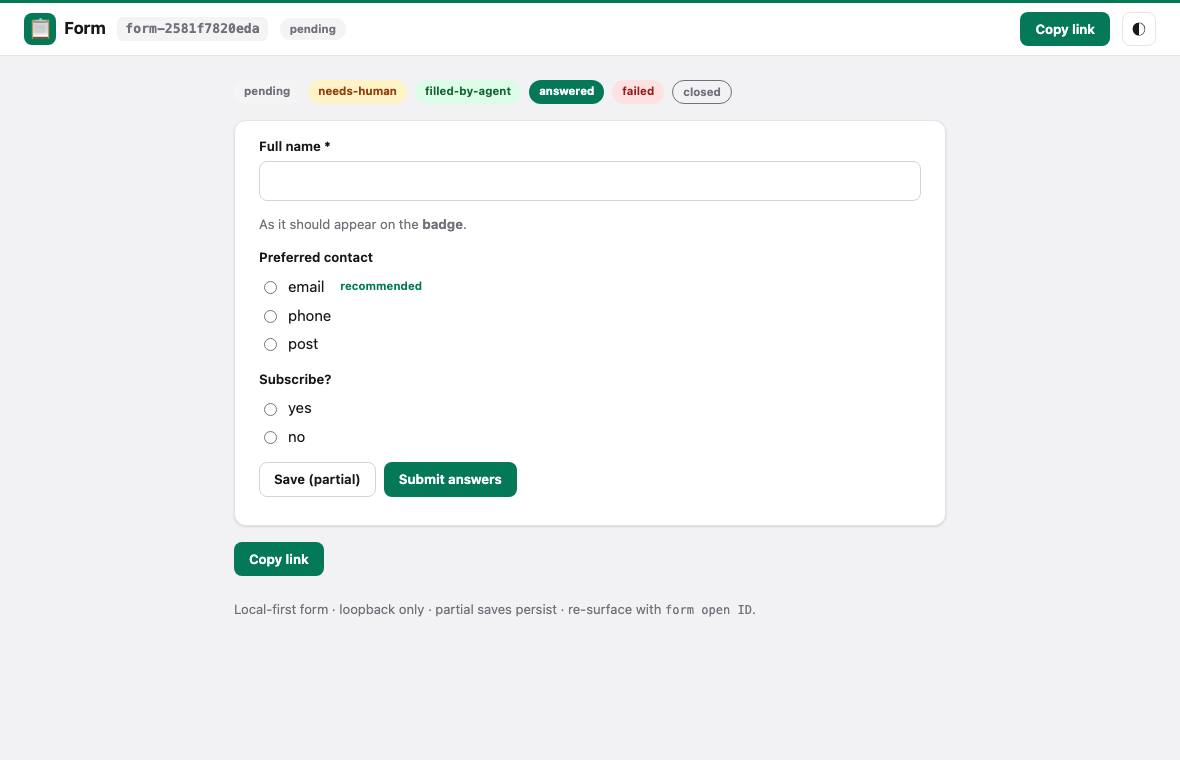
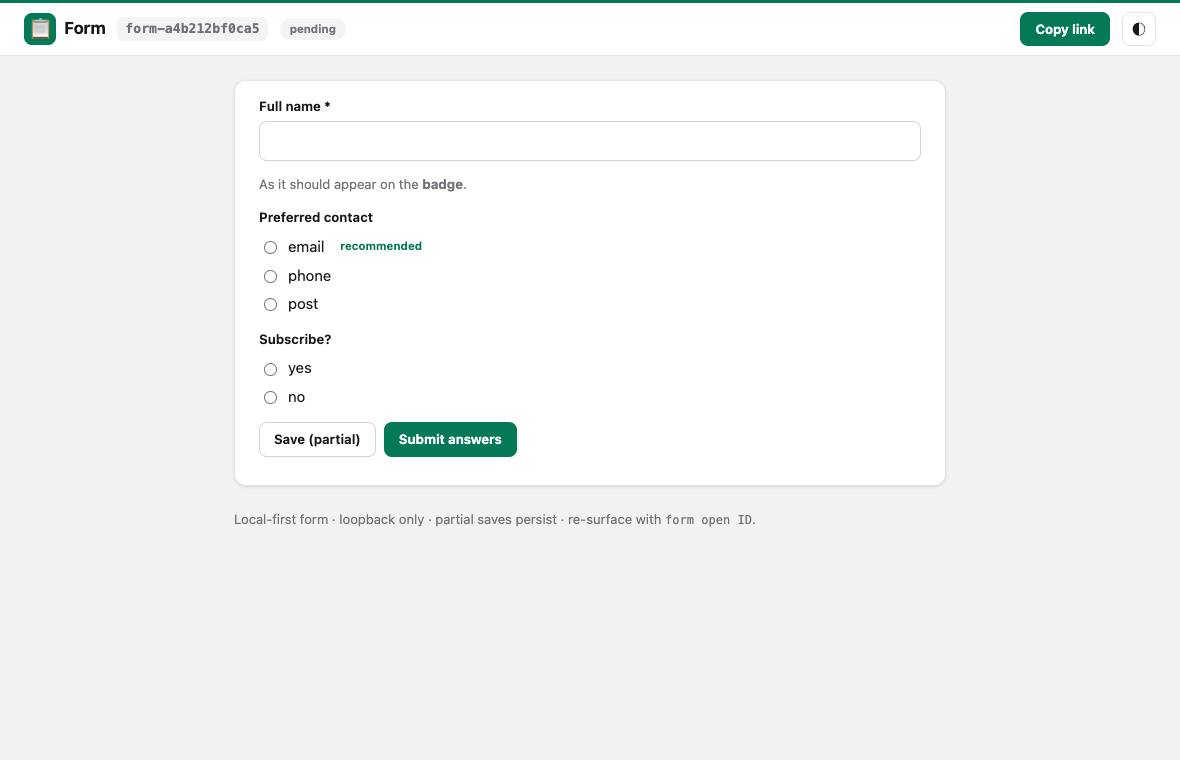
desk: one shell action set per tool, single status badge, gallery check
The kit app bar now owns Copy link for every tool; tool bodies no longer
render their own Copy link or the all-statuses demo strip. capture.mjs
asserts identical top-bar actions and exactly one badge per tool page.

Sprint: #537
Story: #2967
Story-ID: 6238ebc797ee

diff --git a/examples/brainstorm/server/index.html b/examples/brainstorm/server/index.html
@@ -63,7 +63,7 @@ function render(s){
  document.title=s.title+' · Brainstorm';
  $('sessionTitle').textContent=s.title;
  $('summary').textContent=`${s.total} idea${s.total===1?'':'s'} collected`+(s.phase==='vote'?` · ${s.votesLeft} votes left`:'');
- $('statusBadge').dataset.status=s.phase==='closed'?'closed':'pending';$('statusBadge').textContent=s.phase==='closed'?'closed':'pending';$('copy').dataset.copy=location.origin+basePath+'/'+sessionQS();
+ $('statusBadge').dataset.status=s.phase==='closed'?'closed':'pending';$('statusBadge').textContent=s.phase==='closed'?'closed':'pending';$('copy').dataset.copy=location.origin+basePath+'/'+sessionQS();$('deskShareLink').dataset.copy=$('copy').dataset.copy;
  $('facilitatorPanel').hidden=!s.facilitator;$('participantLink').textContent='Participant link: '+location.origin+basePath+'/'+sessionQS();
  if(!$('column').options.length){s.columns.forEach((c,i)=>{const o=el('option',c);o.value=i;$('column').append(o)});$('column').value=draft.column||'0'}
  const writing=s.phase==='write';$('submit').disabled=!writing;$('cancel').hidden=!editing;$('submit').textContent=editing?'Save edit':'Add idea';

diff --git a/examples/whiteboard/server/index.html b/examples/whiteboard/server/index.html
@@ -78,7 +78,7 @@ function render(s){
  $('statusBadge').dataset.status=s.locked?'closed':'pending';$('statusBadge').textContent=s.locked?'closed':'pending';
  const origin=new URL(api('/')).origin+new URL(api('./')).pathname.replace(/\/$/,'');
  $('participantLink').textContent='Participant link: '+origin+'/?board='+encodeURIComponent(s.board);
- $('copyLink').dataset.copy=origin+'/?board='+encodeURIComponent(s.board);syncInviteCopy(origin);
+ $('copyLink').dataset.copy=origin+'/?board='+encodeURIComponent(s.board);$('deskShareLink').dataset.copy=$('copyLink').dataset.copy;syncInviteCopy(origin);
  if(s.facilitator){
   const codes=(s.invites&&s.invites.length?s.invites:(lastInvite?[lastInvite]:[]));
   const show=codes.length?codes[codes.length-1]:'';

diff --git a/examples/desk/kit/kit.js b/examples/desk/kit/kit.js
@@ -35,7 +35,7 @@
   }
 
   async function copyText(btn) {
-    var text = btn.getAttribute('data-copy') || '';
+    var text = btn.getAttribute('data-copy') || location.href;
     try {
       await navigator.clipboard.writeText(text);
       flashCopied(btn);

diff --git a/examples/desk/notepad/main.go b/examples/desk/notepad/main.go
@@ -562,22 +562,12 @@ func (a *app) page(r *http.Request) []byte {
 	header := kit.EmptyItemHeader("new note")
 	noteTitle := ""
 	noteBody := ""
-	currentURL := a.baseURL + "/"
 	if id != "" {
 		if n, err := a.loadLocked(id); err == nil {
 			header = kit.ItemHeader(n.ID, n.Status, a.urlFor(n.ID))
 			noteTitle = n.Title
 			noteBody = n.Body
-			currentURL = a.urlFor(n.ID)
 		}
-	}
-
-	var badges strings.Builder
-	for _, s := range []string{
-		kit.StatusPending, kit.StatusNeeds, kit.StatusFilled,
-		kit.StatusAnswered, kit.StatusFailed, kit.StatusClosed,
-	} {
-		badges.WriteString(kit.Badge(s))
 	}
 
 	// List of other notes
@@ -602,7 +592,6 @@ func (a *app) page(r *http.Request) []byte {
 .np-split .desk-panel{margin-bottom:0}.np-split textarea{min-height:320px;font-family:var(--desk-font-mono);font-size:var(--desk-text-sm)}
 .np-notes{margin:0;padding-left:1.2em;columns:2 220px}
 </style>` + kit.AppBar("notepad", a.baseURL+"/", header, "") + `<main class="desk-main">` +
-		`<div class="desk-statuses">` + badges.String() + `</div>` +
 		`<div data-desk-alert class="desk-alert"></div>` +
 		`<form id="noteForm" onsubmit="return false"><div class="np-split"><section class="desk-panel">` +
 		kit.TextField("title", "Title", "text", noteTitle, "") +
@@ -612,7 +601,6 @@ func (a *app) page(r *http.Request) []byte {
 		`<div class="desk-row">` +
 		`<button type="button" class="desk-copy" id="saveBtn" data-desk-shortcut="save" title="Save (⌘/Ctrl+S)">Save Note</button>` +
 		`<button type="button" class="desk-copy secondary" id="newBtn">New Note</button>` +
-		kit.CopyButton("Copy link", currentURL) +
 		kit.CopyButton("Copy text", noteBody) +
 		`</div></section>` +
 		`<section class="desk-panel"><h2 class="desk-h2">Preview</h2>` +
@@ -667,15 +655,8 @@ func (a *app) page(r *http.Request) []byte {
           history.replaceState(null, '', u.toString());
           const headerId = document.querySelector('.desk-item-header .desk-id');
           if (headerId) headerId.textContent = data.id;
-          const headerTools = document.querySelector('.desk-item-header .desk-tools');
-          if (headerTools && data.url) {
-            headerTools.innerHTML = '<button type="button" class="desk-copy" data-desk-copy data-copy="' + data.url.replace(/"/g, '&quot;') + '" data-copied="false">Copy link</button>';
-          }
-          document.querySelectorAll('button[data-desk-copy]').forEach(btn => {
-            if (btn.textContent.includes('Copy link') && data.url) {
-              btn.setAttribute('data-copy', data.url);
-            }
-          });
+          const shareLink = document.getElementById('deskShareLink');
+          if (shareLink && data.url) shareLink.setAttribute('data-copy', data.url);
           const resurface = document.querySelector('.desk-footer code');
           if (resurface) resurface.textContent = 'notepad open ' + data.id;
         }

diff --git a/examples/desk/kit/ui.go b/examples/desk/kit/ui.go
@@ -47,9 +47,9 @@ func ItemHeader(id, status, shareURL string) string {
 	var b strings.Builder
 	b.WriteString(`<div class="desk-item-header"><span class="desk-id">`)
 	b.WriteString(html.EscapeString(id))
-	b.WriteString(`</span>` + Badge(status) + `<span class="desk-tools">`)
-	b.WriteString(CopyButton("Copy link", shareURL))
-	b.WriteString(`</span></div>`)
+	b.WriteString(`</span>` + Badge(status) + `<span class="desk-tools" data-share="`)
+	b.WriteString(html.EscapeString(shareURL))
+	b.WriteString(`"></span></div>`)
 	return b.String()
 }
 
@@ -127,7 +127,7 @@ const (
 // id, a pending badge and no share tools.
 func EmptyItemHeader(placeholder string) string {
 	return `<div class="desk-item-header"><span class="desk-id">` + html.EscapeString(placeholder) + `</span>` +
-		Badge(StatusPending) + `<span class="desk-tools"></span></div>`
+		Badge(StatusPending) + `<span class="desk-tools" data-share=""></span></div>`
 }
 
 // AppBar renders the one top bar every tool shows, in the same place:
@@ -143,13 +143,36 @@ func AppBar(tool, homeURL, itemHeader, extra string) string {
 	b.WriteString(`<header class="desk-appbar" data-desk-shell>`)
 	b.WriteString(`<a class="desk-brand" href="` + html.EscapeString(homeURL) + `"><span class="desk-icon" aria-hidden="true">` +
 		t.Icon + `</span><span class="desk-name">` + html.EscapeString(t.Label) + `</span></a>`)
-	b.WriteString(itemHeader)
+	b.WriteString(shellTools(itemHeader))
 	if extra != "" {
 		b.WriteString(`<span class="desk-appbar-extra">` + extra + `</span>`)
 	}
 	b.WriteString(ThemeToggle())
 	b.WriteString(`</header>`)
 	return b.String()
+}
+
+// shellTools puts the one shell action set (Copy link) into the item header.
+// Tools never render their own; the link copies the header's data-share URL,
+// or the page URL when none is given (scripts may update data-copy).
+func shellTools(header string) string {
+	share := ""
+	if i := strings.Index(header, `data-share="`); i >= 0 {
+		rest := header[i+len(`data-share="`):]
+		if j := strings.IndexByte(rest, '"'); j >= 0 {
+			share = html.UnescapeString(rest[:j])
+		}
+	}
+	btn := `<span class="desk-tools">` + strings.Replace(CopyButton("Copy link", share), `<button `, `<button id="deskShareLink" `, 1) + `</span>`
+	if i := strings.Index(header, `<span class="desk-tools"`); i >= 0 {
+		if j := strings.Index(header[i:], `</span>`); j >= 0 {
+			return header[:i] + btn + header[i+j+len(`</span>`):]
+		}
+	}
+	if i := strings.LastIndex(header, `</div>`); i >= 0 {
+		return header[:i] + btn + header[i:]
+	}
+	return header + btn
 }
 
 // ThemeToggle is the shared light/dark switch (also bound to "t").

diff --git a/examples/desk/kit/internal/fixture/main.go b/examples/desk/kit/internal/fixture/main.go
@@ -468,11 +468,6 @@ func (a *app) page(r *http.Request) []byte {
 			header = kit.ItemHeader(it.ID, it.Status, a.urlFor(it.ID))
 		}
 	}
-	var badges strings.Builder
-	for _, s := range []string{kit.StatusPending, kit.StatusNeeds, kit.StatusFilled,
-		kit.StatusAnswered, kit.StatusFailed, kit.StatusClosed} {
-		badges.WriteString(kit.Badge(s))
-	}
 	planted := ""
 	switch breakMode { // deliberate kit-conformance breaks for red/green proof
 	case "hex-color":
@@ -485,11 +480,9 @@ func (a *app) page(r *http.Request) []byte {
 		appbar = header
 	}
 	body := planted + appbar + `<main class="desk-main desk-narrow">` +
-		`<div class="desk-statuses">` + badges.String() + `</div>` +
 		`<div data-desk-alert class="desk-alert"></div>` +
 		kit.TextField("title", "Title", "text", "", "") +
 		kit.TextField("body", "Body", "textarea", "", "recommended") +
-		`<div class="desk-row">` + kit.CopyButton("Copy link", a.baseURL+"/") + `</div>` +
 		`<p class="desk-muted">Local-first memo · loopback only · re-surface with <code>memo open ID</code>.</p></main>`
 	return kit.Page("memo", "Memo · desk fixture", body)
 }

diff --git a/examples/desk/form/server/main.go b/examples/desk/form/server/main.go
@@ -761,16 +761,9 @@ func (a *app) page(r *http.Request) []byte {
 			formBody = kit.State("error", "Form not found", "Create it with form add first.")
 		}
 	}
-	var badges strings.Builder
-	for _, s := range []string{kit.StatusPending, kit.StatusNeeds, kit.StatusFilled,
-		kit.StatusAnswered, kit.StatusFailed, kit.StatusClosed} {
-		badges.WriteString(kit.Badge(s))
-	}
 	body := kit.AppBar("form", a.baseURL+"/", header, "") + `<main class="desk-main desk-narrow">` +
-		`<div class="desk-statuses">` + badges.String() + `</div>` +
 		`<div data-desk-alert class="desk-alert"></div>` +
 		`<section class="desk-panel">` + formBody + `</section>` +
-		`<div class="desk-row">` + kit.CopyButton("Copy link", a.baseURL+"/") + `</div>` +
 		`<p class="desk-footer">Local-first form · loopback only · partial saves persist · re-surface with <code>form open ID</code>.</p></main>` +
 		`<script>` + formPageJS + `</script>`
 	return kit.Page("form", "Form · bashy desk", body)
